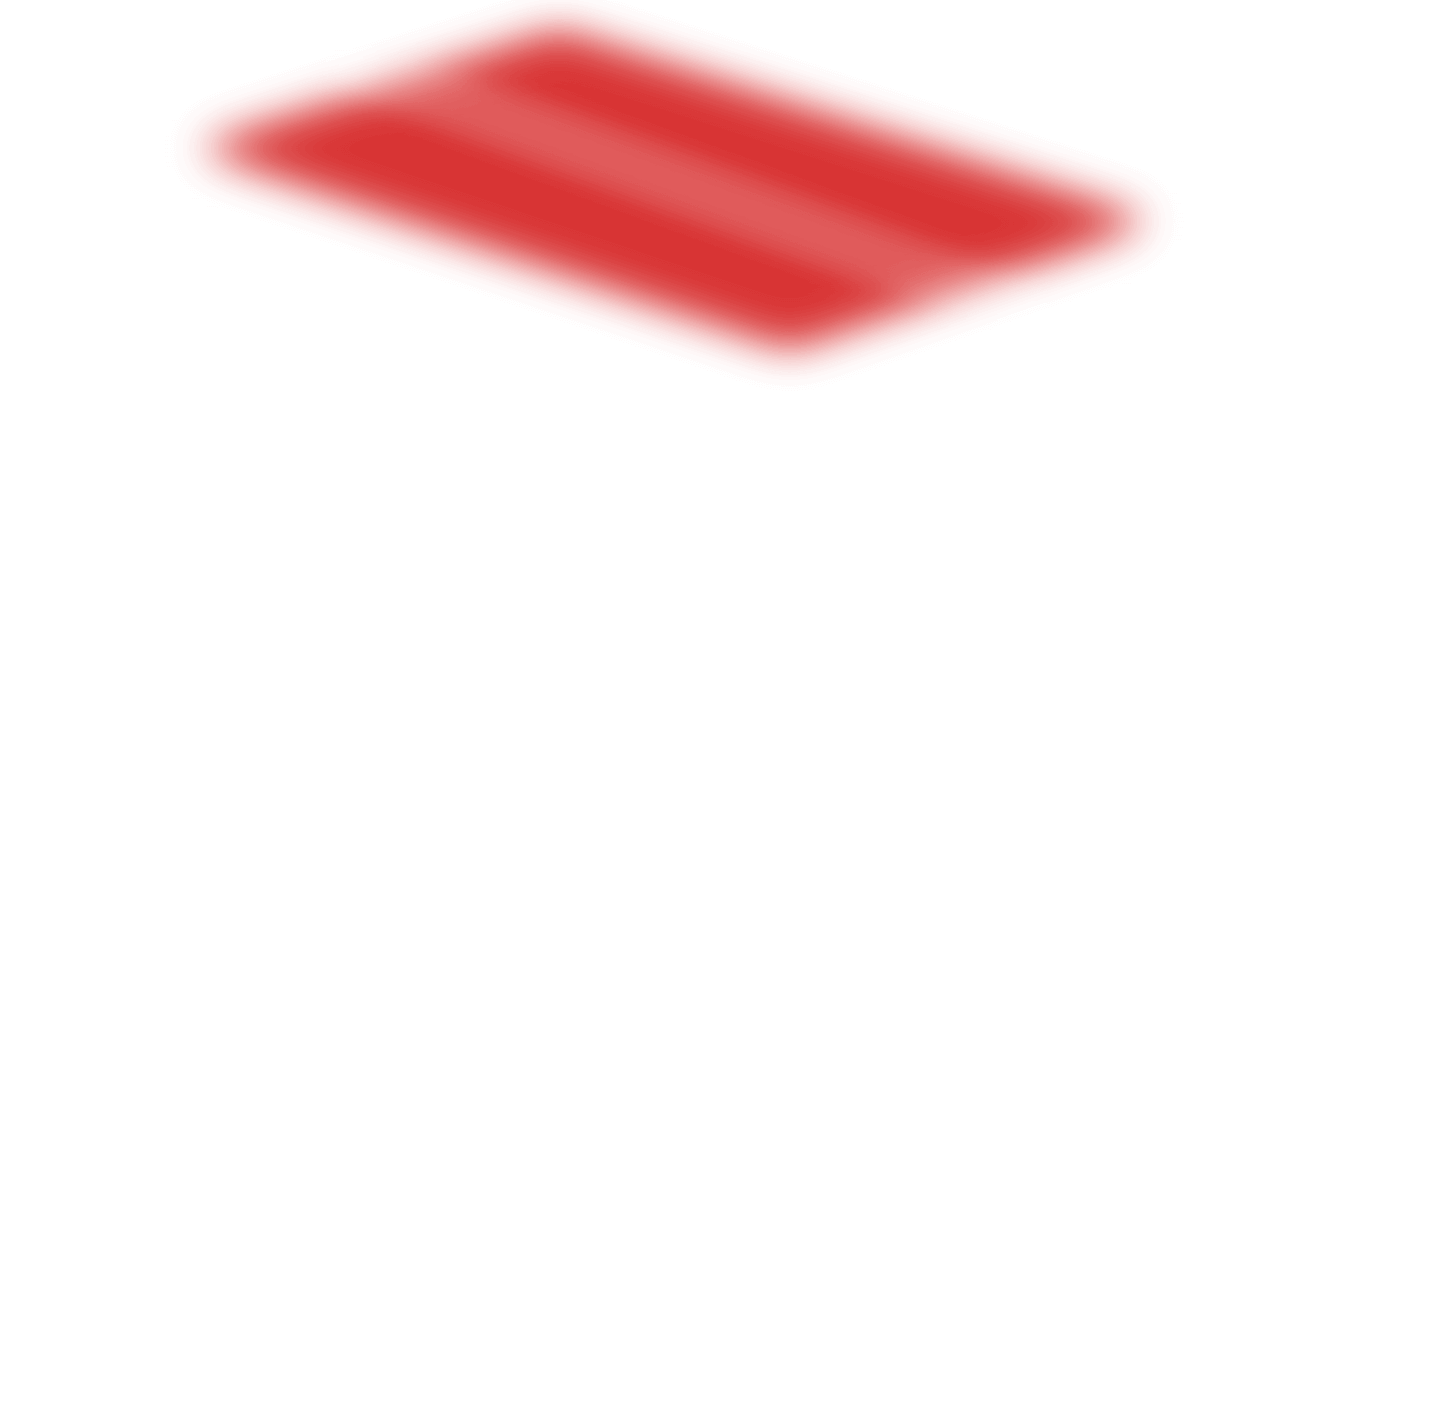
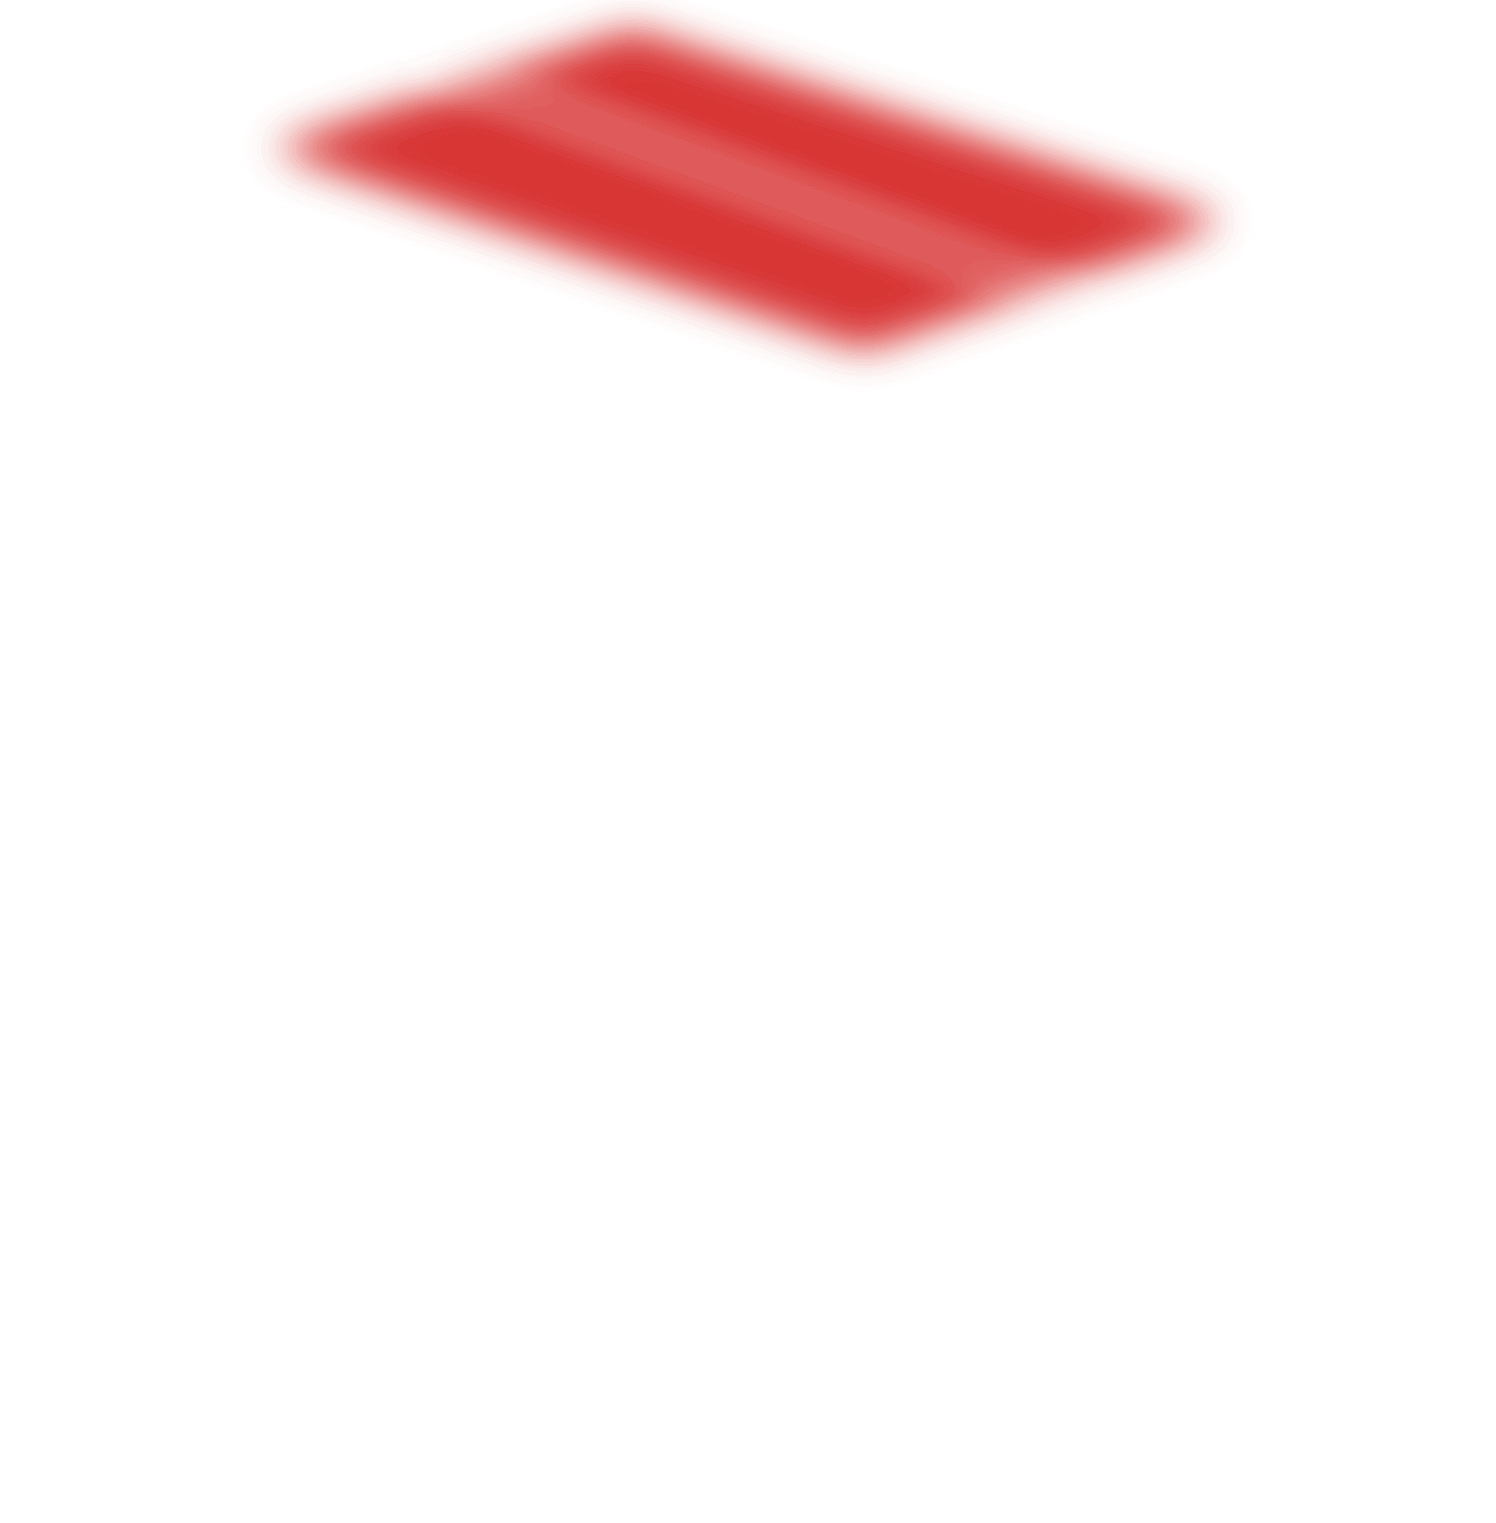
Maxvi KT822S

Changed region(s): [[0.1249, 0.0, 0.8119, 0.2801]]

diff --git a/KT822S/files/css/style.css b/KT822S/files/css/style.css
@@ -1,2 +1,2 @@
-:root{--c-default: #010101}.KT822S-landing{max-width:2160px;margin:auto;background:#fff;font-family:'Roboto', sans-serif;font-size:18px;font-weight:400;color:var(--c-default);line-height:1.25}.KT822S-landing section{position:relative;background-position:center center;background-repeat:no-repeat;-webkit-background-size:cover;background-size:cover}.KT822S-landing img{max-width:100%;pointer-events:none}.KT822S-landing [data-aos="fade-down-bounce"]{transform:translateY(-100px)}.KT822S-landing [data-aos="fade-down-bounce"].aos-animate{animation:forwards fade-down-bounce 500ms}@keyframes fade-down-bounce{0%{transform:translateY(-100px)}50%{transform:translateY(0)}75%{transform:translateY(-15px)}100%{transform:translateY(0)}}.KT822S-landing .container{position:relative;width:100%;max-width:1220px;padding-left:50px;padding-right:50px}.KT822S-landing .d-flex{-webkit-display:flex;-ms-display:flex;display:flex;-webkit-flex-wrap:wrap;-ms-flex-wrap:wrap;flex-wrap:wrap}.KT822S-landing .d-flex.row:before,.KT822S-landing .d-flex.row:after{display:none}.KT822S-landing .flex-nowrap{-ms-flex-wrap:nowrap;flex-wrap:nowrap}.KT822S-landing .justify-content-center{justify-content:center}.KT822S-landing .align-items-start{align-items:start}.KT822S-landing .align-items-center{align-items:center}.KT822S-landing .align-self-center{align-self:center}.KT822S-landing .align-self-end{align-self:flex-end}.KT822S-landing .section-dark,.KT822S-landing .section-dark .KT822S-title,.KT822S-landing .section-dark .KT822S-subtitle,.KT822S-landing .section-dark .KT822S-description{color:#fff}.KT822S-title{margin:0 0 20px;font-size:35px;font-weight:700;line-height:normal}.KT822S-title span{font-weight:300}.KT822S-title .text-lead{font-size:180%;font-weight:900;line-height:normal}.KT822S-description{margin:0 0 45px;font-size:20px;font-weight:300;line-height:normal}.KT822S-description p{margin:0}.KT822S-description p+p{margin-top:20px}.KT822S-description ul{margin:0 0 0 15px;padding:0;list-style:none}.KT822S-media-figure{position:relative;opacity:1 !important;margin:0}.KT822S-media-figure .KT822S-media{max-width:100%;max-height:100%}.KT822S-power{height:750px;padding-top:0;padding-bottom:0;background-color:#8f8e8e;background-position:center calc(50% + 105px),center center !important;color:#cf0202;text-align:right}.KT822S-power-title{position:absolute;top:35px;left:15px;right:15px;font-size:82px;font-weight:500;line-height:1.35}.KT822S-power-title .text-lead{font-size:151%;font-weight:700;line-height:1}.KT822S-power-figure{position:absolute;z-index:1;top:70px;left:15px;right:15px;width:670px;height:658px;margin:auto}.KT822S-power-media{position:absolute;top:0;left:0;right:0;bottom:0;width:inherit;height:inherit;background-repeat:no-repeat;background-size:contain}.KT822S-levels{overflow:hidden;height:750px;padding-top:0;padding-bottom:0;background-color:#040404;background-position:left center, right center !important;background-size:250px auto !important;background-repeat:repeat-y !important;text-align:center}.KT822S-levels-title{position:absolute;z-index:1;top:200px;left:15px;right:15px;font-size:82px;font-weight:500;line-height:1.1}.KT822S-levels-title .text-mark{color:#cf0202}.KT822S-levels-figure{position:absolute;z-index:1;top:-160px;left:15px;right:15px;width:710px;height:911px;margin:auto}.KT822S-levels-figure::before{position:absolute;z-index:-1;top:1.5%;left:10%;right:10%;bottom:0;border-radius:10% 10% 0 0;box-shadow:0 0 10vw 0.5vw #fff;content:''}.KT822S-levels-media{width:inherit;height:inherit}.KT822S-design{overflow:hidden;height:750px;padding-top:0;padding-bottom:0;background-color:#4c4b4e}.KT822S-design-title{position:absolute;top:505px;left:15px;right:15px;font-size:82px;font-weight:500;line-height:1.1}.KT822S-design-figure{position:absolute;top:65px;left:15px;right:15px;width:974px;height:680px;margin:auto}.KT822S-design-media{width:inherit;height:inherit}
+:root{--c-default: #010101}.KT822S-landing{max-width:2160px;margin:auto;background:#fff;font-family:'Roboto', sans-serif;font-size:18px;font-weight:400;color:var(--c-default);line-height:1.25}.KT822S-landing section{position:relative;background-position:center center;background-repeat:no-repeat;-webkit-background-size:cover;background-size:cover}.KT822S-landing img{max-width:100%;pointer-events:none}.KT822S-landing [data-aos="fade-down-bounce"]{transform:translateY(-100px)}.KT822S-landing [data-aos="fade-down-bounce"].aos-animate{animation:forwards fade-down-bounce 500ms}@keyframes fade-down-bounce{0%{transform:translateY(-100px)}50%{transform:translateY(0)}75%{transform:translateY(-15px)}100%{transform:translateY(0)}}.KT822S-landing .container{position:relative;width:100%;max-width:1220px;padding-left:50px;padding-right:50px}.KT822S-landing .d-flex{-webkit-display:flex;-ms-display:flex;display:flex;-webkit-flex-wrap:wrap;-ms-flex-wrap:wrap;flex-wrap:wrap}.KT822S-landing .d-flex.row:before,.KT822S-landing .d-flex.row:after{display:none}.KT822S-landing .flex-nowrap{-ms-flex-wrap:nowrap;flex-wrap:nowrap}.KT822S-landing .justify-content-center{justify-content:center}.KT822S-landing .align-items-start{align-items:start}.KT822S-landing .align-items-center{align-items:center}.KT822S-landing .align-self-center{align-self:center}.KT822S-landing .align-self-end{align-self:flex-end}.KT822S-landing .section-dark,.KT822S-landing .section-dark .KT822S-title,.KT822S-landing .section-dark .KT822S-subtitle,.KT822S-landing .section-dark .KT822S-description{color:#fff}.KT822S-title{margin:0 0 20px;font-size:35px;font-weight:700;line-height:normal}.KT822S-title span{font-weight:300}.KT822S-title .text-lead{font-size:180%;font-weight:900;line-height:normal}.KT822S-description{margin:0 0 45px;font-size:20px;font-weight:300;line-height:normal}.KT822S-description p{margin:0}.KT822S-description p+p{margin-top:20px}.KT822S-description ul{margin:0 0 0 15px;padding:0;list-style:none}.KT822S-media-figure{position:relative;opacity:1 !important;margin:0}.KT822S-media-figure .KT822S-media{max-width:100%;max-height:100%}.KT822S-power{height:750px;padding-top:0;padding-bottom:0;background-color:#8f8e8e;background-position:center calc(50% + 105px),center center !important;color:#cf0202;text-align:right}.KT822S-power-title{position:absolute;top:35px;left:15px;right:15px;font-size:82px;font-weight:500;line-height:1.35}.KT822S-power-title .text-lead{font-size:151%;font-weight:700;line-height:1}.KT822S-power-figure{position:absolute;z-index:1;top:70px;left:-35px;right:-35px;width:700px;height:712px;margin:auto}.KT822S-power-media{position:absolute;top:0;left:0;right:0;bottom:0;width:inherit;height:inherit;background-repeat:no-repeat;background-size:contain}.KT822S-levels{overflow:hidden;height:750px;padding-top:0;padding-bottom:0;background-color:#040404;background-position:left center, right center !important;background-size:250px auto !important;background-repeat:repeat-y !important;text-align:center}.KT822S-levels-title{position:absolute;z-index:1;top:200px;left:15px;right:15px;font-size:82px;font-weight:500;line-height:1.1}.KT822S-levels-title .text-mark{color:#cf0202}.KT822S-levels-figure{position:absolute;z-index:1;top:-160px;left:15px;right:15px;width:710px;height:911px;margin:auto}.KT822S-levels-figure::before{position:absolute;z-index:-1;top:1.5%;left:10%;right:10%;bottom:0;border-radius:10% 10% 0 0;box-shadow:0 0 10vw 0.5vw #fff;content:''}.KT822S-levels-media{width:inherit;height:inherit}.KT822S-design{overflow:hidden;height:750px;padding-top:0;padding-bottom:0;background-color:#4c4b4e}.KT822S-design-title{position:absolute;top:505px;left:15px;right:15px;font-size:82px;font-weight:500;line-height:1.1}.KT822S-design-figure{position:absolute;top:65px;left:15px;right:15px;width:974px;height:680px;margin:auto}.KT822S-design-media{width:inherit;height:inherit}
 /*# sourceMappingURL=style.css.map */

diff --git a/KT822S/files/css/style-responsive.css b/KT822S/files/css/style-responsive.css
@@ -1,2 +1,2 @@
-@media (max-width: 1199px){.KT822S-power{height:640px;background-position:center calc(50% + 90px),center center !important}.KT822S-power-title{top:30px;font-size:70px}.KT822S-power-figure{top:60px;width:535px;height:525px}.KT822S-levels{height:640px;background-size:200px auto !important}.KT822S-levels-title{top:170px;font-size:70px}.KT822S-levels-figure{top:-135px;width:605px;height:776px}.KT822S-design{height:640px}.KT822S-design-title{top:440px;font-size:70px}.KT822S-design-figure{top:95px;width:780px;height:545px}}@media (max-width: 991px){.KT822S-landing .container{padding-left:40px;padding-right:40px}.KT822S-power{height:600px;background-position:center calc(50% + 75px),center center !important}.KT822S-power-title{top:25px;font-size:60px}.KT822S-power-figure{top:130px;width:455px;height:446px}.KT822S-levels{height:545px;background-size:150px auto !important}.KT822S-levels-title{top:145px;font-size:60px}.KT822S-levels-figure{top:-115px;width:515px;height:660px}.KT822S-design{height:505px}.KT822S-design-title{top:340px;font-size:60px}.KT822S-design-figure{top:70px;width:625px;height:436px}}@media (max-width: 767px){.KT822S-landing .container{padding-left:20px;padding-right:20px}.KT822S-landing .content-inner{margin-bottom:40px;text-align:center}.KT822S-title,.KT822S-subtitle,.KT822S-description{max-width:280px}.KT822S-title{margin:0 0 15px;font-size:28px !important;line-height:1.25}.KT822S-subtitle{font-size:24px !important}.KT822S-description{margin:0 0 20px;font-size:20px !important;line-height:1.3}.KT822S-title[data-aos],.KT822S-subtitle[data-aos],.KT822S-description[data-aos],.KT822S-media-figure[data-aos]{transform:translate(0, 50px)}.KT822S-title[data-aos].aos-animate,.KT822S-subtitle[data-aos].aos-animate,.KT822S-description[data-aos].aos-animate,.KT822S-media-figure[data-aos].aos-animate{transform:translate(0)}.KT822S-power{height:490px;background-position:center calc(50% + 90px),center center !important;text-align:left}.KT822S-power-title{top:40px;font-size:28px}.KT822S-power-figure{top:155px;width:320px;height:314px}.KT822S-levels{height:345px;background-position:-5vw center,calc(100% + 5vw) center !important;background-size:100px auto !important}.KT822S-levels-title{top:110px;font-size:28px}.KT822S-levels-figure{top:-75px;width:330px;height:auto}.KT822S-design{height:390px}.KT822S-design-title{top:40px;font-size:28px}.KT822S-design-figure{top:140px;width:360px;height:252px}}
+@media (max-width: 1199px){.KT822S-power{height:640px;background-position:center calc(50% + 90px),center center !important}.KT822S-power-title{top:30px;font-size:70px}.KT822S-power-figure{top:60px;width:595px;height:606px}.KT822S-levels{height:640px;background-size:200px auto !important}.KT822S-levels-title{top:170px;font-size:70px}.KT822S-levels-figure{top:-135px;width:605px;height:776px}.KT822S-design{height:640px}.KT822S-design-title{top:440px;font-size:70px}.KT822S-design-figure{top:95px;width:780px;height:545px}}@media (max-width: 991px){.KT822S-landing .container{padding-left:40px;padding-right:40px}.KT822S-power{height:600px;background-position:center calc(50% + 75px),center center !important}.KT822S-power-title{top:25px;font-size:60px}.KT822S-power-figure{top:130px;width:475px;height:484px}.KT822S-levels{height:545px;background-size:150px auto !important}.KT822S-levels-title{top:145px;font-size:60px}.KT822S-levels-figure{top:-115px;width:515px;height:660px}.KT822S-design{height:505px}.KT822S-design-title{top:340px;font-size:60px}.KT822S-design-figure{top:70px;width:625px;height:436px}}@media (max-width: 767px){.KT822S-landing .container{padding-left:20px;padding-right:20px}.KT822S-landing .content-inner{margin-bottom:40px;text-align:center}.KT822S-title,.KT822S-subtitle,.KT822S-description{max-width:280px}.KT822S-title{margin:0 0 15px;font-size:28px !important;line-height:1.25}.KT822S-subtitle{font-size:24px !important}.KT822S-description{margin:0 0 20px;font-size:20px !important;line-height:1.3}.KT822S-title[data-aos],.KT822S-subtitle[data-aos],.KT822S-description[data-aos],.KT822S-media-figure[data-aos]{transform:translate(0, 50px)}.KT822S-title[data-aos].aos-animate,.KT822S-subtitle[data-aos].aos-animate,.KT822S-description[data-aos].aos-animate,.KT822S-media-figure[data-aos].aos-animate{transform:translate(0)}.KT822S-power{height:490px;background-position:center calc(50% + 90px),center center !important;text-align:left}.KT822S-power-title{top:40px;font-size:28px}.KT822S-power-figure{top:155px;left:-15px;right:-15px;width:330px;height:336px}.KT822S-levels{height:345px;background-position:-5vw center,calc(100% + 5vw) center !important;background-size:100px auto !important}.KT822S-levels-title{top:110px;font-size:28px}.KT822S-levels-figure{top:-75px;width:330px;height:auto}.KT822S-design{height:390px}.KT822S-design-title{top:40px;font-size:28px}.KT822S-design-figure{top:140px;width:360px;height:252px}}
 /*# sourceMappingURL=style-responsive.css.map */

diff --git a/KT822S/files/scss/style-responsive.scss b/KT822S/files/scss/style-responsive.scss
@@ -12,8 +12,8 @@
 
         &-figure {
             top: 60px;
-            width: 535px;
-            height: 525px;
+            width: 595px;
+            height: 606px;
         }
     }
 
@@ -77,8 +77,8 @@
 
         &-figure {
             top: 130px;
-            width: 455px;
-            height: 446px;
+            width: 475px;
+            height: 484px;
         }
     }
 
@@ -184,8 +184,10 @@
 
         &-figure {
             top: 155px;
-            width: 320px;
-            height: 314px;
+            left: -15px;
+            right: -15px;
+            width: 330px;
+            height: 336px;
         }
     }
 

diff --git a/KT822S/index.html b/KT822S/index.html
@@ -47,8 +47,8 @@
                                     loading="lazy"
                                     src="files/images/section-power/KT822S-power-toaster-front.png"
                                     class="KT822S-power-media layer-1"
-                                    width="670"
-                                    height="658"
+                                    width="700"
+                                    height="712"
                                     alt="Тостер Maxvi KT822S"
                                 />
 

diff --git a/KT822S/files/scss/style.scss b/KT822S/files/scss/style.scss
@@ -186,10 +186,10 @@
         position: absolute;
         z-index: 1;
         top: 70px;
-        left: 15px;
-        right: 15px;
-        width: 670px;
-        height: 658px;
+        left: -35px;
+        right: -35px;
+        width: 700px;
+        height: 712px;
         margin: auto;
     }
 

diff --git a/KT822S/include.php b/KT822S/include.php
@@ -55,8 +55,8 @@ $this->addExternalJS($folder . 'js/main.js');
                             loading="lazy"
                             src="<?= $folder ?>/images/section-power/KT822S-power-toaster-front.png"
                             class="KT822S-power-media layer-1"
-                            width="670"
-                            height="658"
+                            width="700"
+                            height="712"
                             alt="Тостер Maxvi KT822S"
                         />
 
